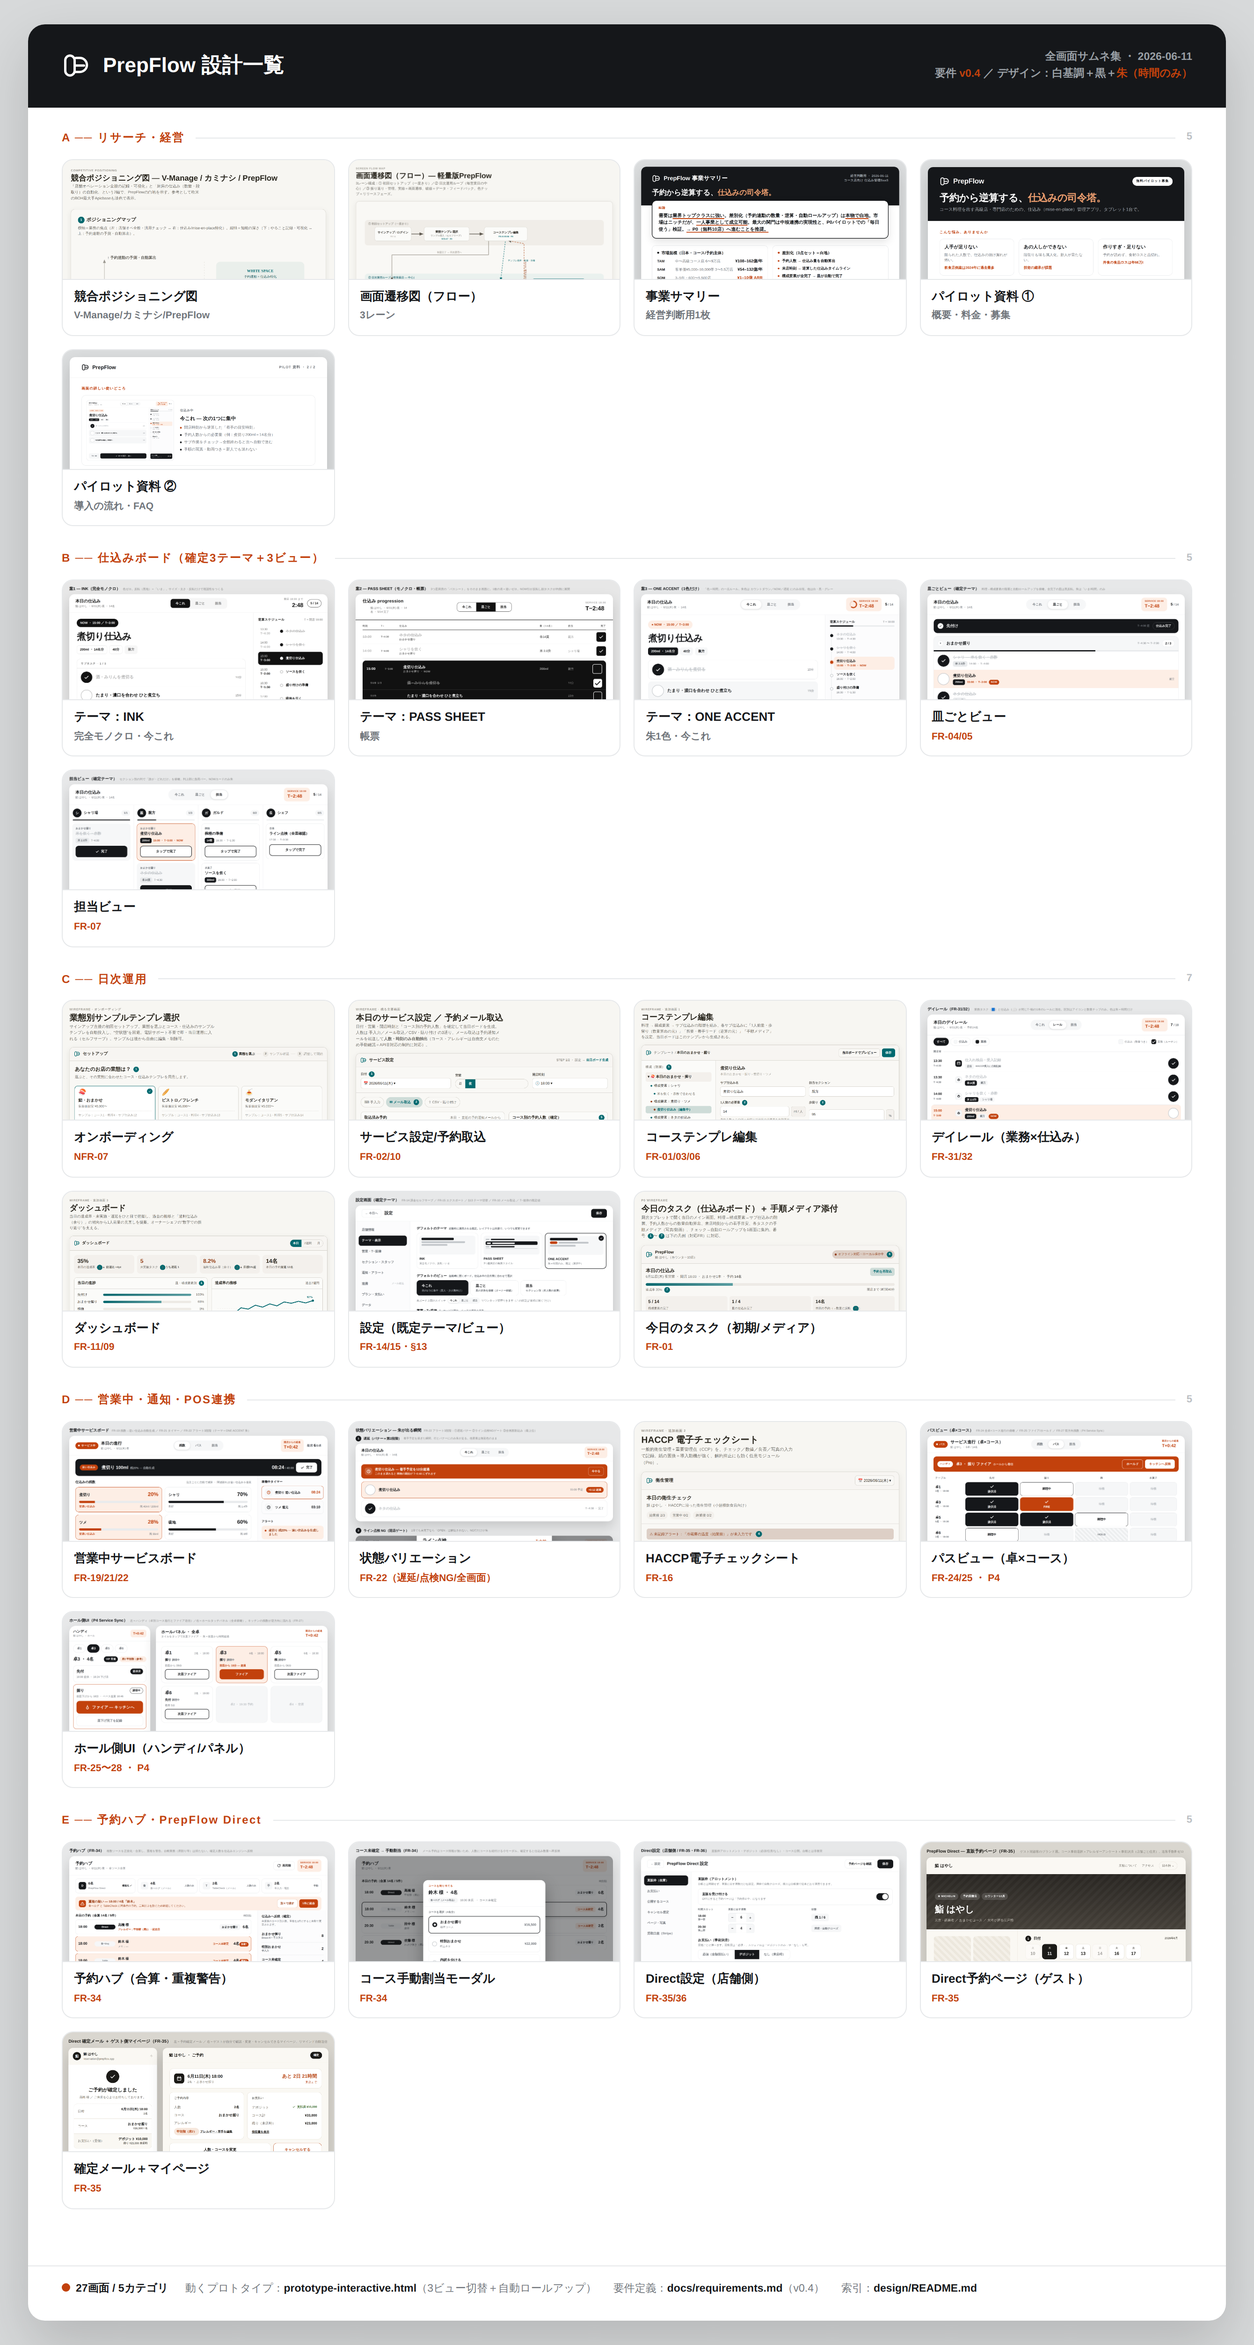
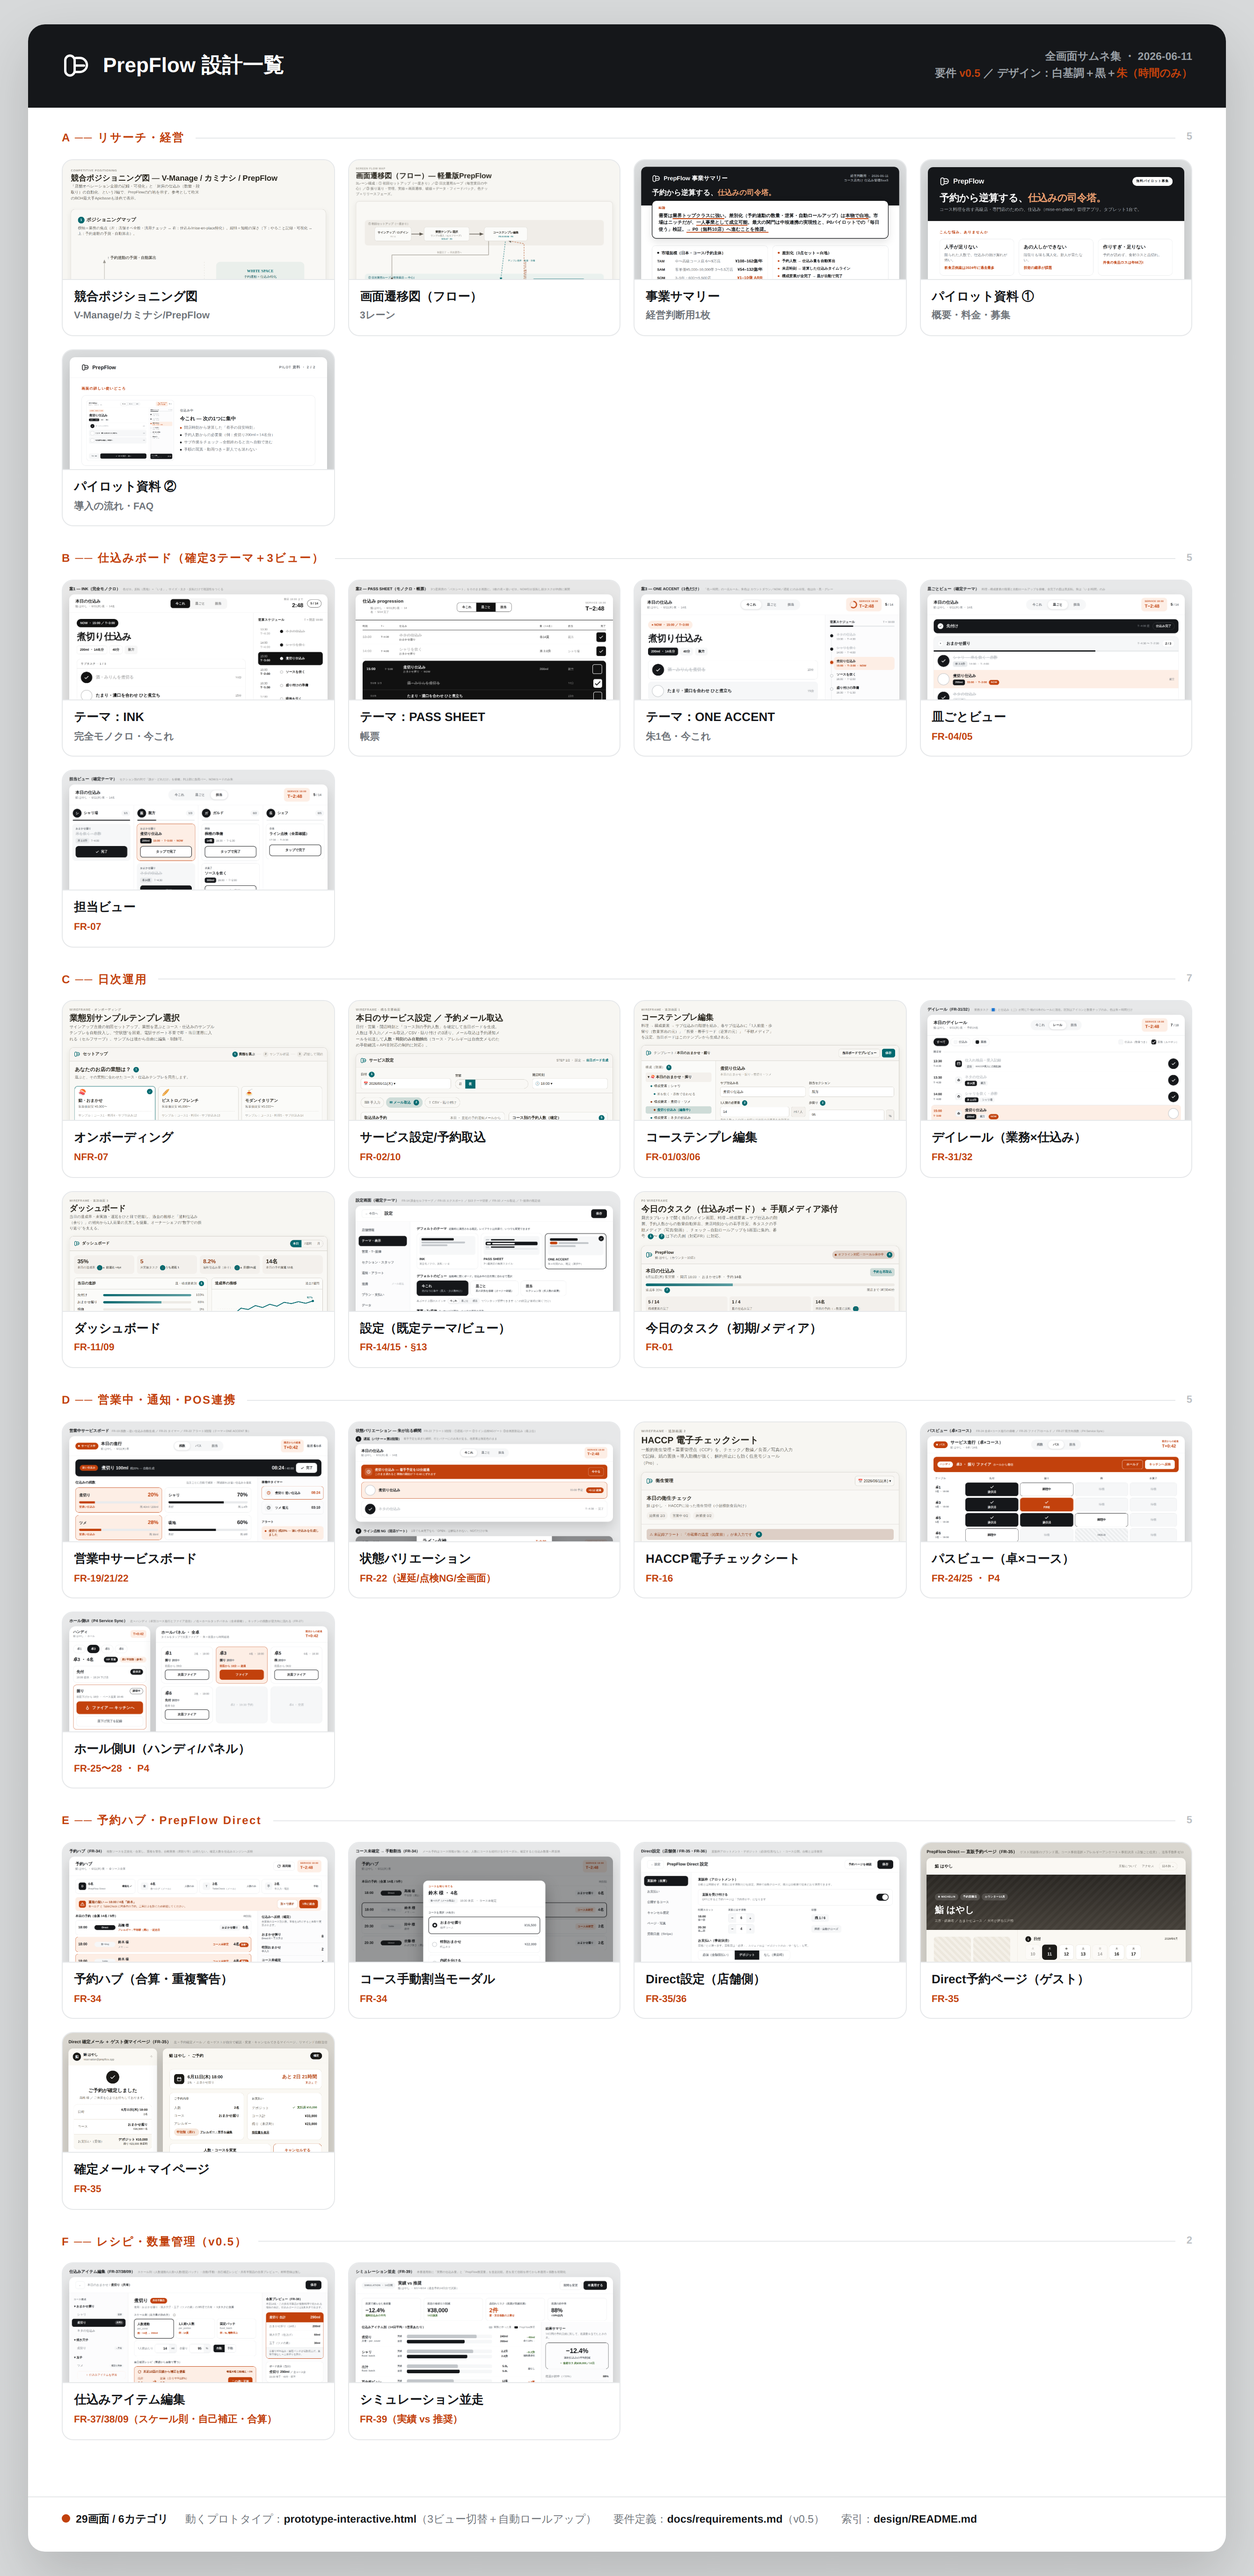
Update overview gallery: add v0.5 recipe/quantity category (27→29)
- 新カテゴリ「F ── レシピ・数量管理（v0.5）」を追加:
  仕込みアイテム編集(FR-37/38/09)・シミュレーション並走(FR-39)
- 要件表記をv0.5に更新、フッタ 27→29画面・6カテゴリ
- README索引も更新

https://claude.ai/code/session_018mZZ112uFbi6TDTQG5iJF9

diff --git a/design/overview-gallery.html b/design/overview-gallery.html
@@ -37,7 +37,7 @@
   <div class="hero">
     <svg class="logo" viewBox="0 0 48 48" fill="none"><rect x="6" y="7" width="16" height="34" rx="8" stroke="currentColor" stroke-width="4"/><path d="M24 11h7c6.6 0 12 5.4 12 12s-5.4 12-12 12h-7" stroke="currentColor" stroke-width="4" stroke-linecap="round"/><path d="M24 24h14" stroke="currentColor" stroke-width="4" stroke-linecap="round"/></svg>
     <b>PrepFlow 設計一覧</b>
-    <div class="meta">全画面サムネ集 ・ 2026-06-11<br>要件 <em>v0.4</em> ／ デザイン：白基調＋黒＋<em>朱（時間のみ）</em></div>
+    <div class="meta">全画面サムネ集 ・ 2026-06-11<br>要件 <em>v0.5</em> ／ デザイン：白基調＋黒＋<em>朱（時間のみ）</em></div>
   </div>
   <div class="pad">
 
@@ -103,11 +103,20 @@
       </div>
     </div>
 
+    <!-- F recipe / quantity (v0.5) -->
+    <div class="sec">
+      <div class="sk"><span class="n">F ── レシピ・数量管理（v0.5）</span><span class="ln"></span><span class="ct">2</span></div>
+      <div class="grid">
+        <div class="card"><div class="thumb"><img src="p1-wireframe-prepitem-editor.png"></div><div class="lab"><b>仕込みアイテム編集</b><span class="tag fr">FR-37/38/09（スケール則・自己補正・合算）</span></div></div>
+        <div class="card"><div class="thumb"><img src="p0-wireframe-simulation.png"></div><div class="lab"><b>シミュレーション並走</b><span class="tag fr">FR-39（実績 vs 推奨）</span></div></div>
+      </div>
+    </div>
+
   </div>
   <div class="foot">
-    <span><span class="dot"></span><b>27画面 / 5カテゴリ</b></span>
+    <span><span class="dot"></span><b>29画面 / 6カテゴリ</b></span>
     <span>動くプロトタイプ：<b>prototype-interactive.html</b>（3ビュー切替＋自動ロールアップ）</span>
-    <span>要件定義：<b>docs/requirements.md</b>（v0.4）</span>
+    <span>要件定義：<b>docs/requirements.md</b>（v0.5）</span>
     <span>索引：<b>design/README.md</b></span>
   </div>
 </div>

diff --git a/design/README.md b/design/README.md
@@ -16,7 +16,7 @@
 
 | 成果物 | ファイル | 内容 |
 |---|---|---|
-| **設計一覧（全画面サムネ集）** | `overview-gallery.html/.png` | **27画面 / 5カテゴリ**を1枚に。各サムネにラベル＋FRタグ |
+| **設計一覧（全画面サムネ集）** | `overview-gallery.html/.png` | **29画面 / 6カテゴリ**を1枚に。各サムネにラベル＋FRタグ |
 
 ## 1. 図版（リサーチ・全体設計）
 
